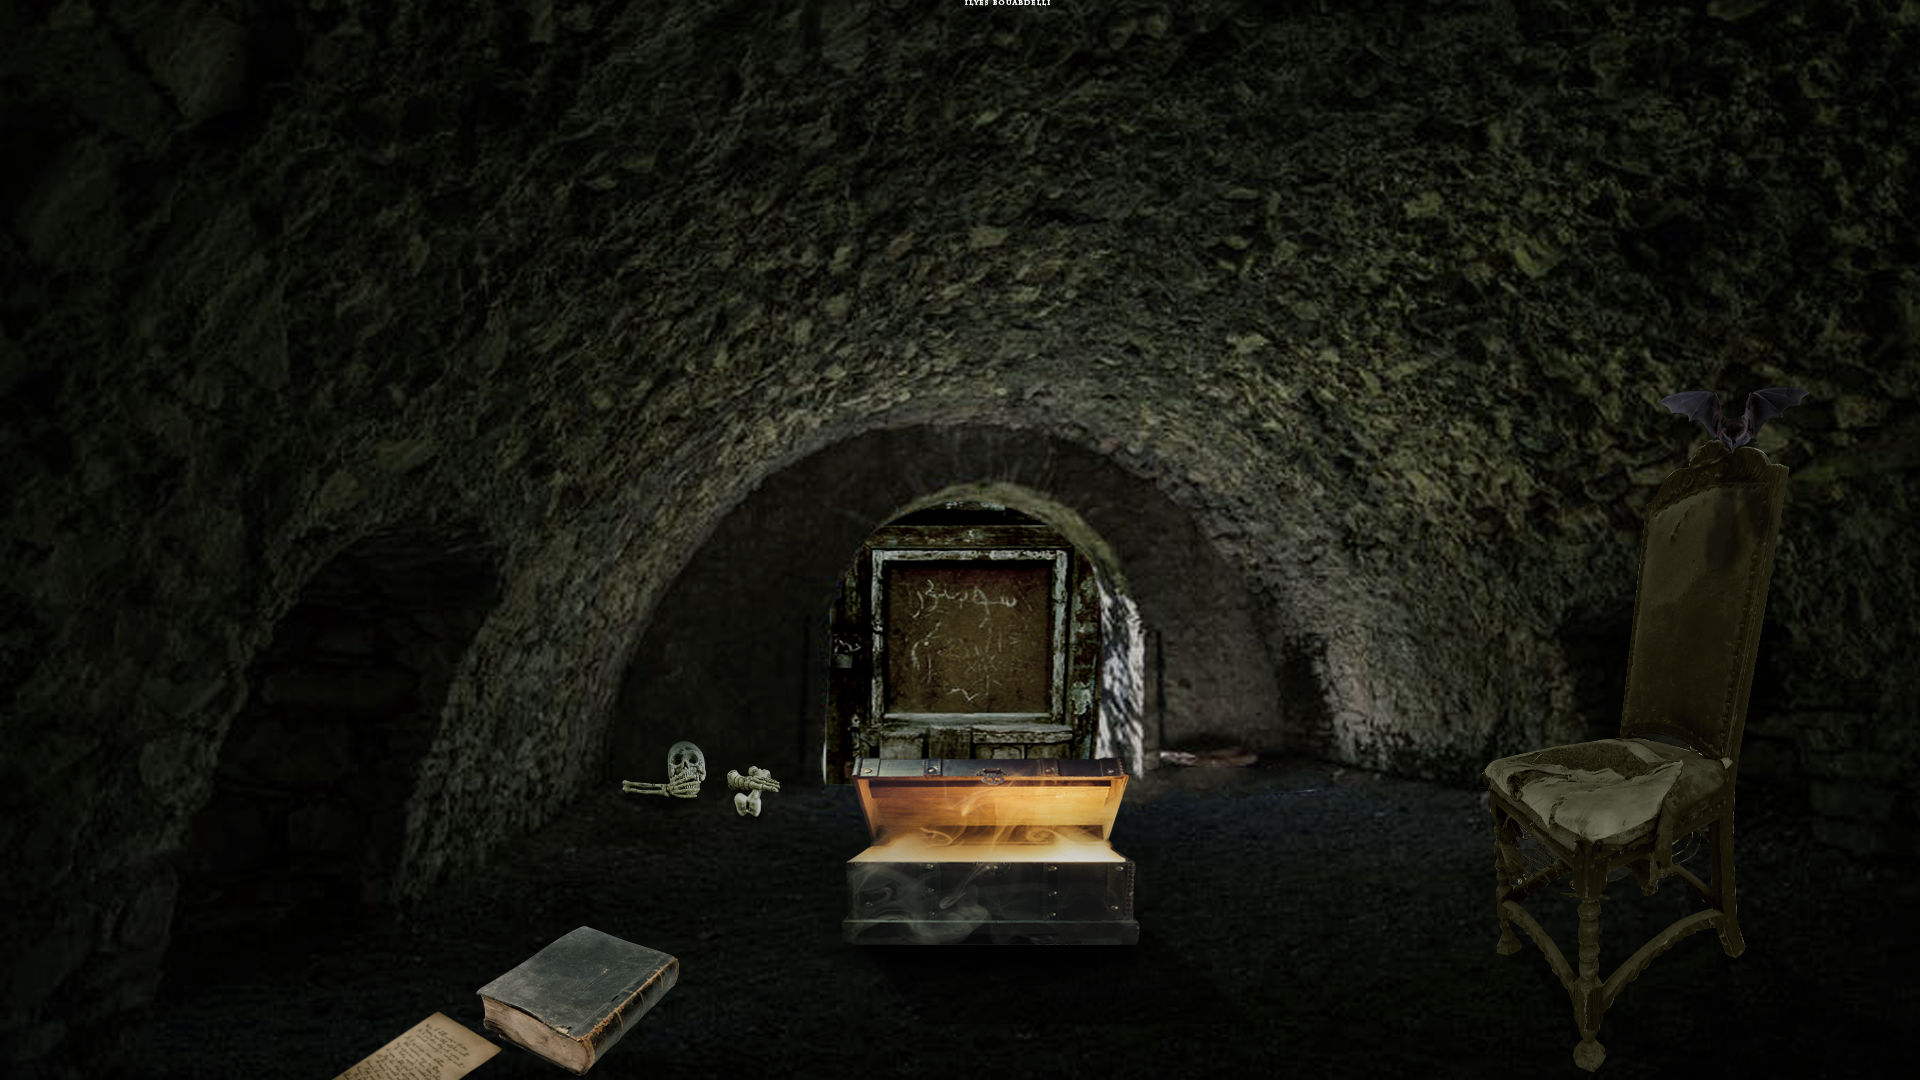
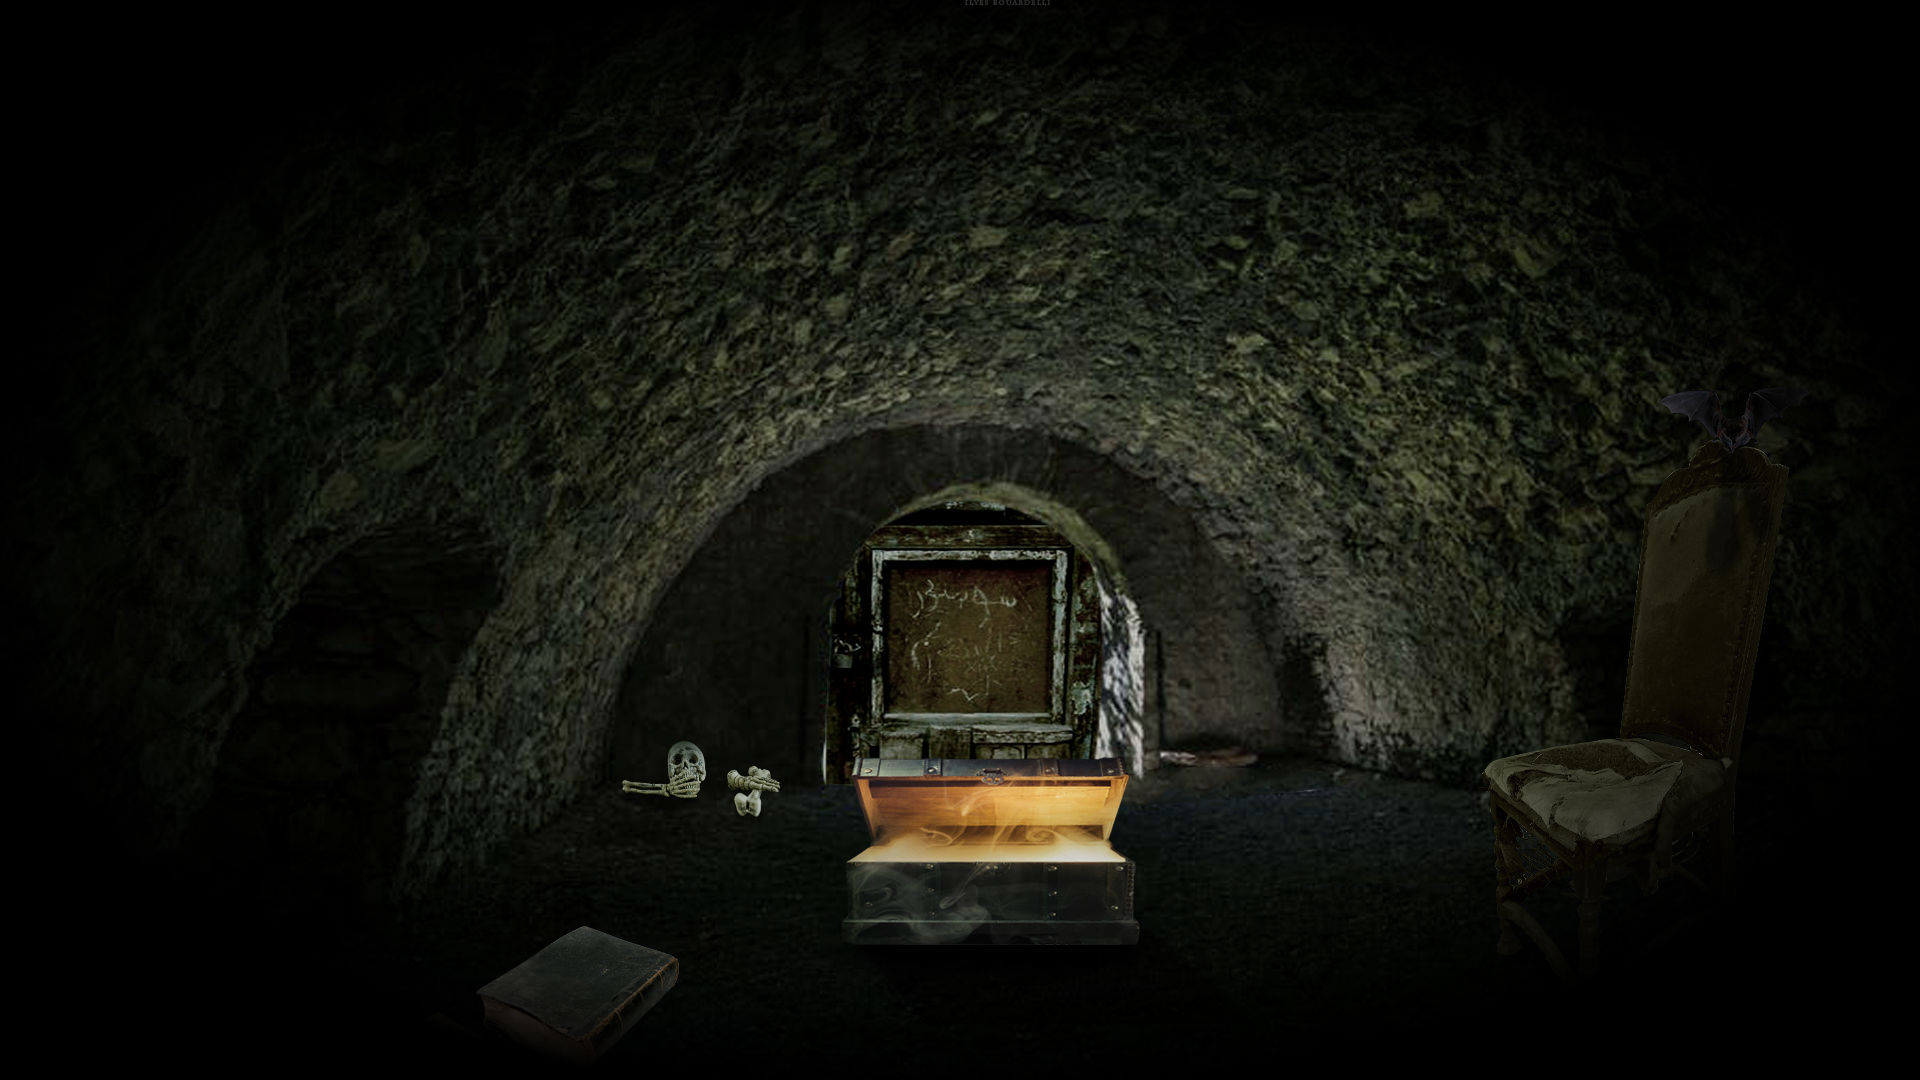
Add pause menu image + support

diff --git a/src/frames/MainDisplay.java b/src/frames/MainDisplay.java
@@ -61,7 +61,6 @@ public class MainDisplay extends JComponent implements Observer {
         // get model details and construct enough map cards to fit
         for (int i = 0; i < 9; i++) { // replace 9 with model value
             cards.put("level" + i, new MapCard());
-            this.add(cards.get("level" + i));
             // set up each level
             MapCard m = (MapCard) cards.get("level" + i);
             //

diff --git a/src/frames/cards/PauseCard.java b/src/frames/cards/PauseCard.java
@@ -6,12 +6,19 @@ package frames.cards;
  * 300338518
  */
 
+import gfx.ImageLoader;
+
+import javax.swing.*;
+
 public class PauseCard extends Card {
 
-    //
+    public PauseCard() {
+        setBackground(ImageLoader.image("pause.jpg"));
+        this.add(new JLabel(new ImageIcon(background)));
+    }
 
     @Override
     public void redraw() {
-
+        //
     }
 }

diff --git a/src/frames/cards/MenuCard.java b/src/frames/cards/MenuCard.java
@@ -9,7 +9,6 @@ package frames.cards;
 import gfx.ImageLoader;
 
 import javax.swing.*;
-import java.awt.*;
 
 public class MenuCard extends Card {
 
